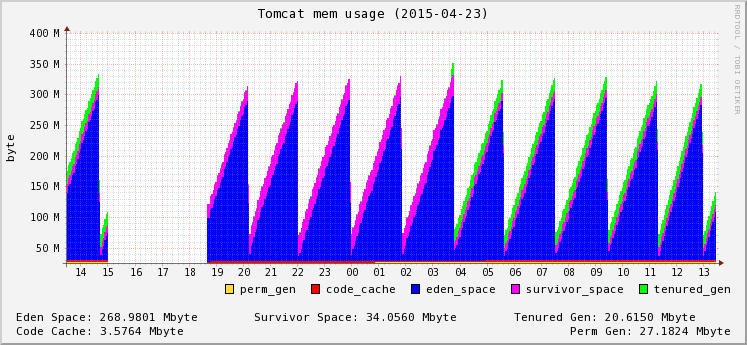
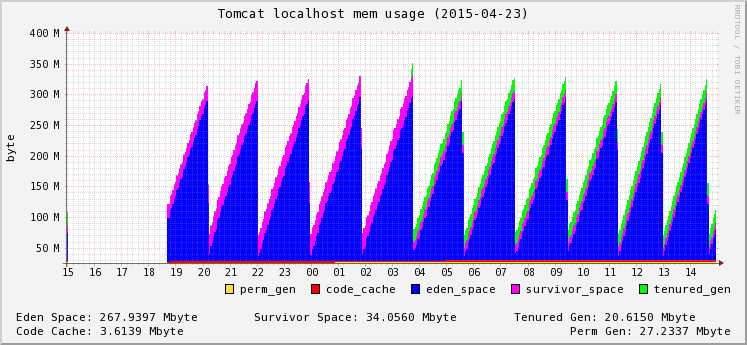
remove func init

diff --git a/mem_graph.py b/mem_graph.py
@@ -3,23 +3,16 @@ import rrdtool
 import time
 
 class MemGraph:
-	title=''
-	rrdPath=''
-	picPaht=''
 
-	def __init__(self,title,rrdPath,picPath):
-		self.title = title
-		self.rrdPath = rrdPath
-		self.picPath = picPath
-
-	def graph(self):
-		rrdtool.graph(self.picPath,'--start','-1d','--vertical-label=byte','--x-grid','MINUTE:12:HOUR:1:HOUR:1:0:%H',\
-		'--width','650','--height','230','--title',self.title,
-		"DEF:eden_space="+self.rrdPath+":eden_space:AVERAGE",
-		"DEF:survivor_space="+self.rrdPath+":survivor_space:AVERAGE",
-		"DEF:tenured_gen="+self.rrdPath+":tenured_gen:AVERAGE",
-		"DEF:code_cache="+self.rrdPath+":code_cache:AVERAGE",
-		"DEF:perm_gen="+self.rrdPath+":perm_gen:AVERAGE",
+	def graph(self,host,rrdPath,picPath):
+		title = 'Tomcat '+host+' mem usage ('+time.strftime('%Y-%m-%d',time.localtime(time.time()))+')'
+		rrdtool.graph(picPath,'--start','-1d','--vertical-label=byte','--x-grid','MINUTE:12:HOUR:1:HOUR:1:0:%H',\
+		'--width','650','--height','230','--title',title,
+		"DEF:eden_space="+rrdPath+":eden_space:AVERAGE",
+		"DEF:survivor_space="+rrdPath+":survivor_space:AVERAGE",
+		"DEF:tenured_gen="+rrdPath+":tenured_gen:AVERAGE",
+		"DEF:code_cache="+rrdPath+":code_cache:AVERAGE",
+		"DEF:perm_gen="+rrdPath+":perm_gen:AVERAGE",
 		"CDEF:total=eden_space,survivor_space,tenured_gen,code_cache,perm_gen,+,+,+,+",
 		"AREA:perm_gen#FFDC36:perm_gen",
 		"AREA:code_cache#FF0000:code_cache:STACK",
@@ -39,9 +32,5 @@ class MemGraph:
 		"GPRINT:perm_gen:MAX:Perm Gen\: %6.4lf %Sbyte")
 
 
-memGraph = MemGraph('Tomcat mem usage ('+time.strftime('%Y-%m-%d',time.localtime(time.time()))+')','/home/brian/dev/python/tomcat/mem.rrd','/home/brian/dev/python/tomcat/mem.png')
-memGraph.graph()
-
-
-
-
+memGraph = MemGraph()
+memGraph.graph('localhost','/home/brian/dev/python/tomcat/mem.rrd','/home/brian/dev/python/tomcat/mem.png')

diff --git a/mem_update.py b/mem_update.py
@@ -3,16 +3,10 @@ import rrdtool
 import time,psutil
 from jmx4py.jolokia.client import *
 
-class MemDataUpdate:
-	host = ''
-	port = ''
+class MemUpdate:
 
-	def __init__(self,host,port):
-		self.host = host
-		self.port = port
-
-	def update(self):
-		proxy = JmxClient((self.host,self.port))
+	def update(self,host,port,rrdPath):
+		proxy = JmxClient((host,port))
 		resp = proxy.read("java.lang:type=MemoryPool,name=PS Eden Space",["Usage"])
 		eden_space = resp.value.get("Usage")["used"]
 		resp = proxy.read("java.lang:type=MemoryPool,name=PS Survivor Space",["Usage"])
@@ -24,10 +18,9 @@ class MemDataUpdate:
 		resp = proxy.read("java.lang:type=MemoryPool,name=PS Perm Gen",["Usage"])
 		perm_gen = resp.value.get("Usage")["used"]
 		now = int(time.time())
-		update=rrdtool.updatev('/home/brian/dev/python/tomcat/mem.rrd','%s:%s:%s:%s:%s:%s' % 
+		update=rrdtool.updatev(rrdPath,'%s:%s:%s:%s:%s:%s' % 
 			(str(now),str(eden_space),str(survivor_sapce),str(old_gen),str(code_cache),str(perm_gen)))
 		print update
 
-memUpdate = MemDataUpdate('localhost','8080')
-memUpdate.update()
-
+memUpdate = MemUpdate()
+memUpdate.update('localhost','8080','/home/brian/dev/python/tomcat/mem.rrd')

diff --git a/mem_cretate.py b/mem_cretate.py
@@ -5,11 +5,12 @@ import time
 
 class CreateMemGraph:
 
-	def create(self,rrdPath,step,start):
+	def create(self,rrdPath):
 		if os.path.exists(rrdPath):
 			return
 		else:
-			rrd=rrdtool.create(rrdPath,'--step',step,'--start',start,
+			now=str(int(time.time()))
+			rrd=rrdtool.create(rrdPath,'--step','60','--start',now,
 			'DS:eden_space:GAUGE:600:0:U',
 			'DS:survivor_space:GAUGE:600:0:U',
 			'DS:tenured_gen:GAUGE:600:0:U',
@@ -22,12 +23,6 @@ class CreateMemGraph:
 			if rrd:
 				print rrdtool.error()
 
-cur_time=str(int(time.time()))
+
 createGraph = CreateMemGraph()
-createGraph.create('/home/brian/dev/python/tomcat/mem.rrd',60,cur_time)
-
-
-
-
-
-
+createGraph.create('/home/brian/dev/python/tomcat/mem.rrd')
